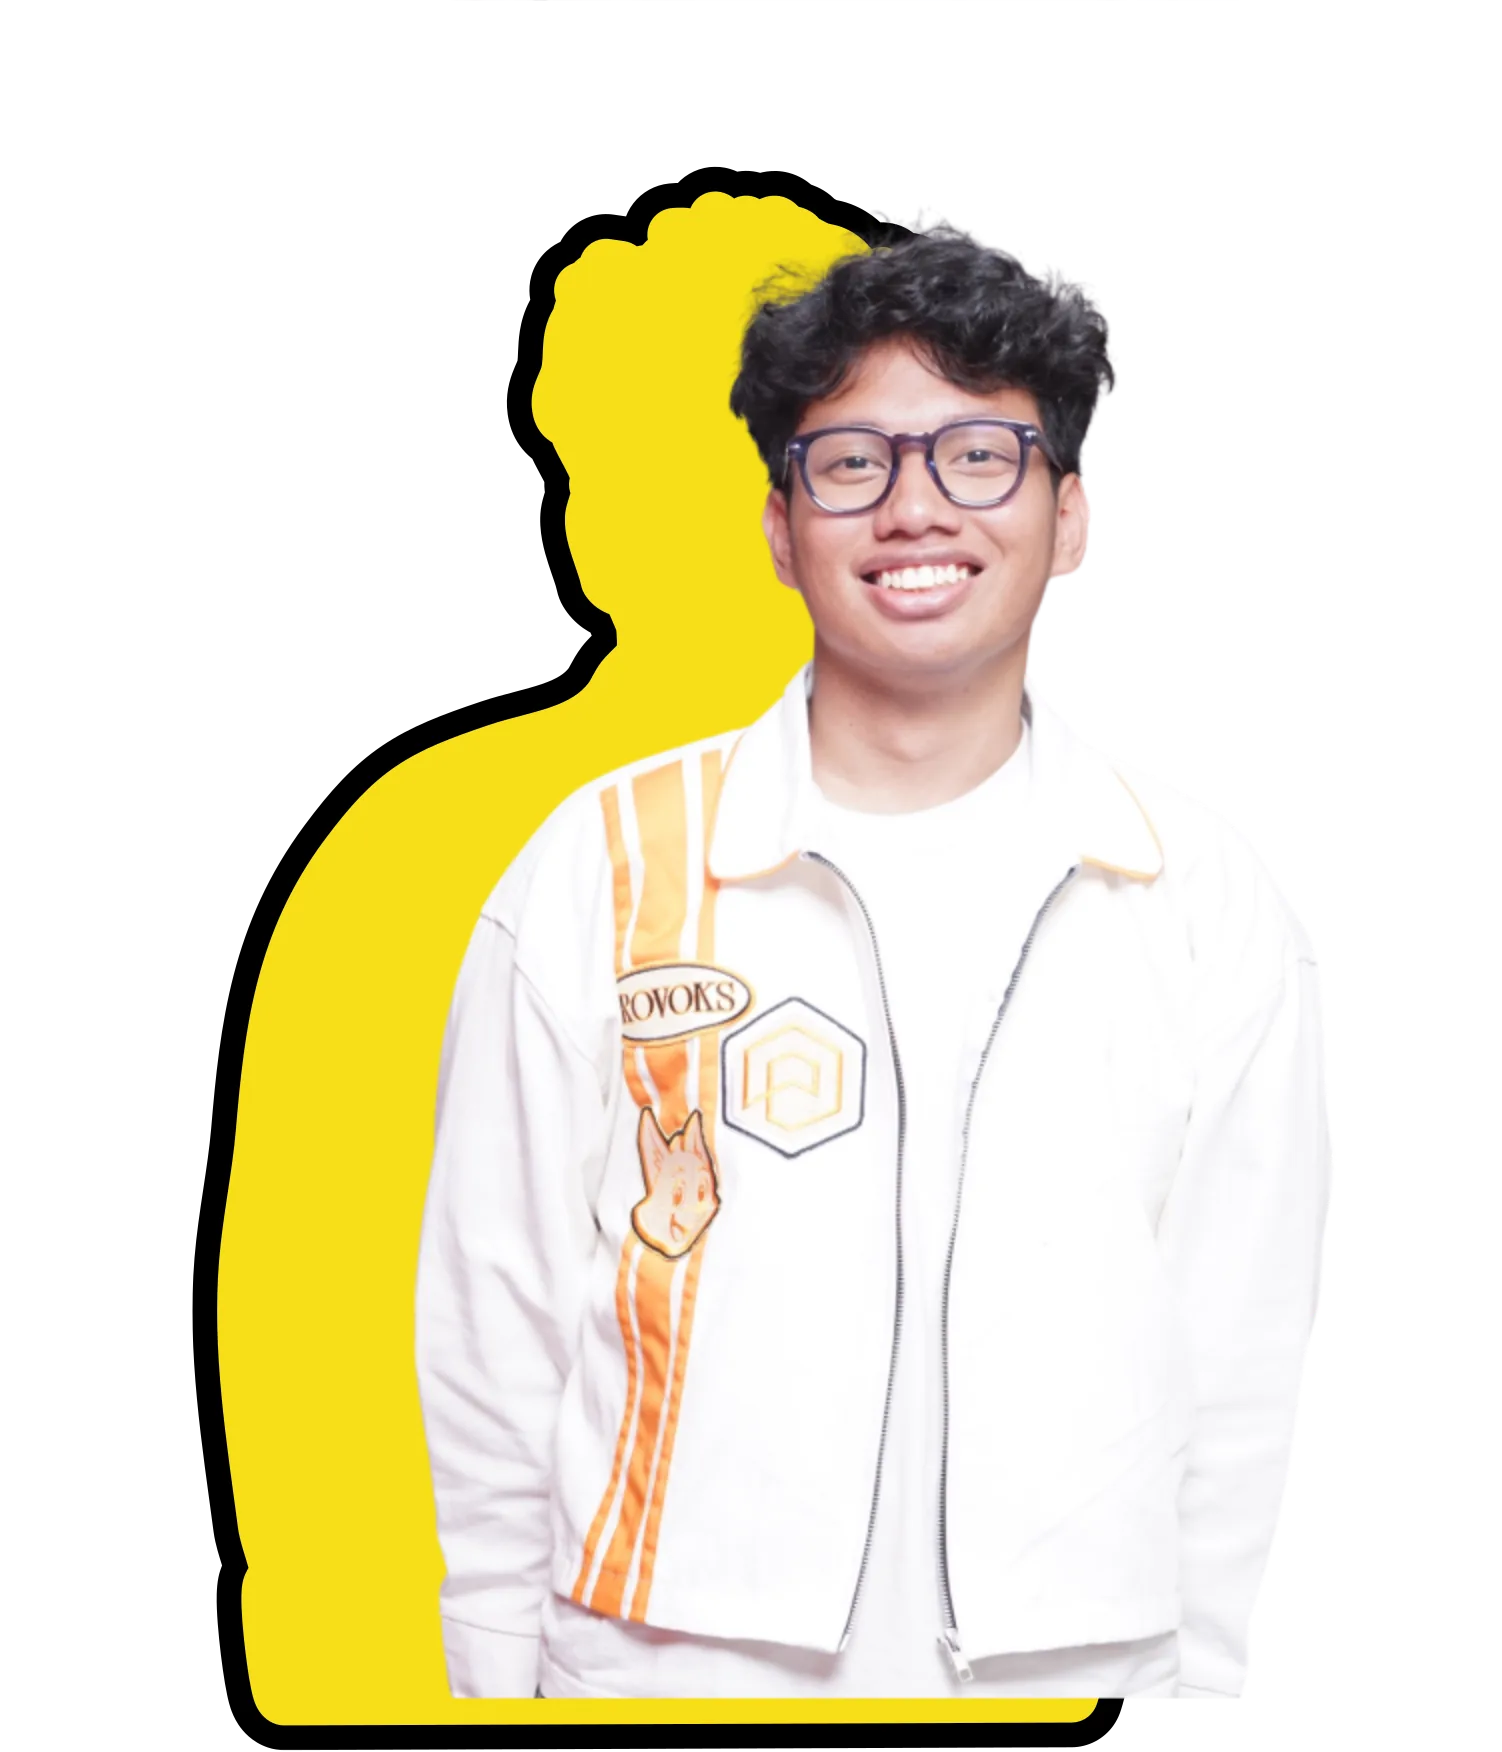
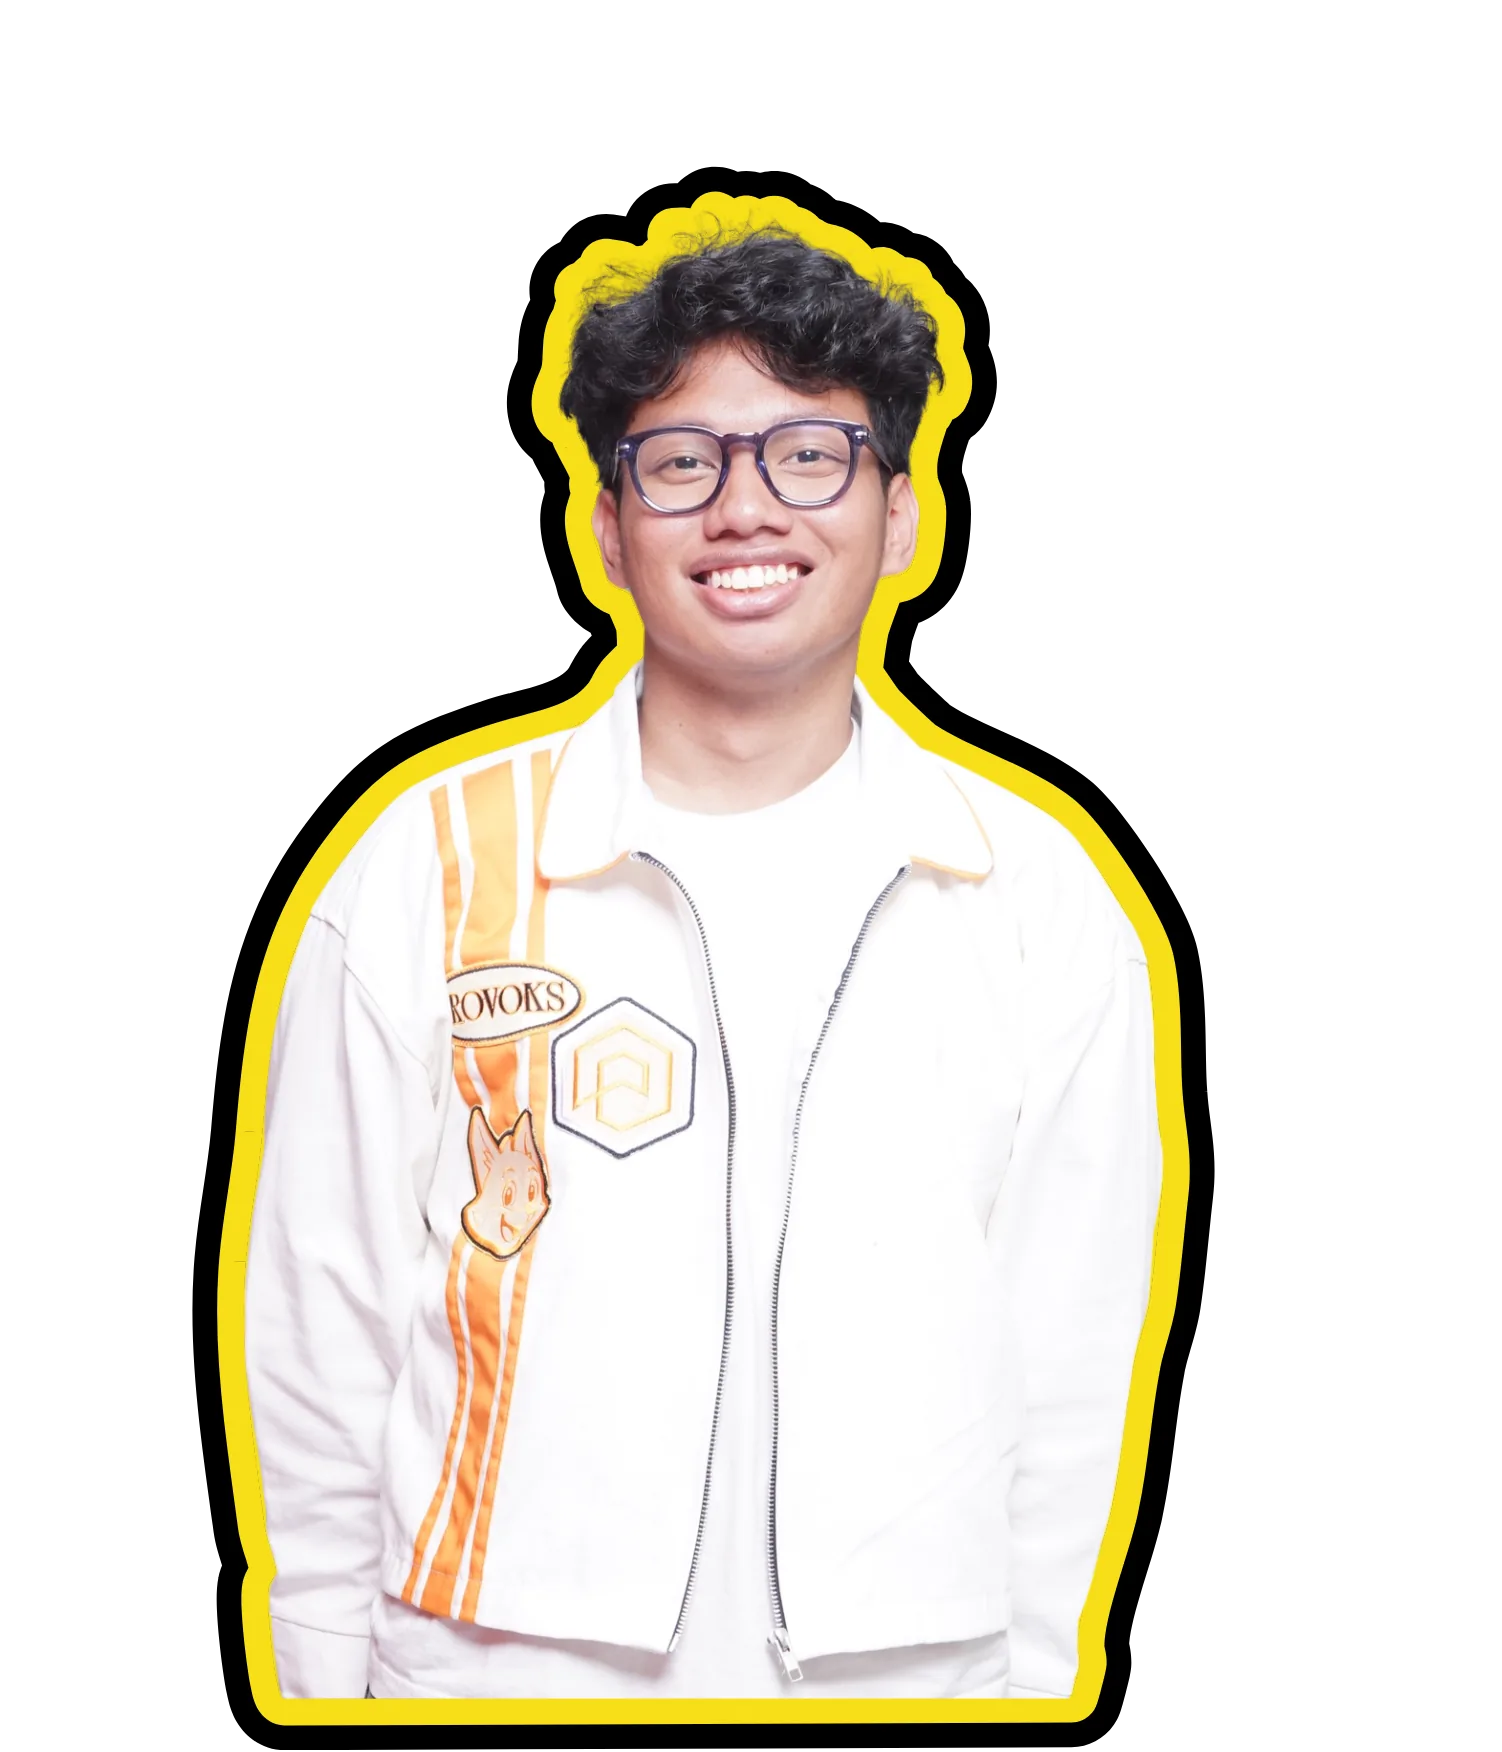
fix(images): re-render WebP with Chrome engine to fix cut-off head
- cairosvg renders SVG pattern fills differently than browsers, causing the head to be cut off in fathur2.webp (and subtle differences in fathur.webp)

- Re-rendered all 3 images with headless Chrome (same engine as user browsers): bg4 407->492KB, fathur 68->83KB, fathur2 99->97KB

- Include skill.jsx photo tweak (left-1/3 + object-contain)

Changed region(s): [[0.1531, 0.1233, 0.8269, 0.9863], [0.6431, 0.5548, 0.6738, 0.6473]]

diff --git a/src/components/skill.jsx b/src/components/skill.jsx
@@ -192,7 +192,7 @@ export default function Skill() {
                         <img
                             src="/fathur2.webp"
                             alt="Fathur"
-                            className="skill-photo absolute left-1/2 -bottom-230 -translate-x-1/2 h-[160%] object-cover mb-10 pointer-events-none"
+                            className="skill-photo absolute left-1/3 -bottom-230 -translate-x-1/2 h-[160%] object-contain mb-10 pointer-events-none"
                         />
                     </div>
                 </div>
